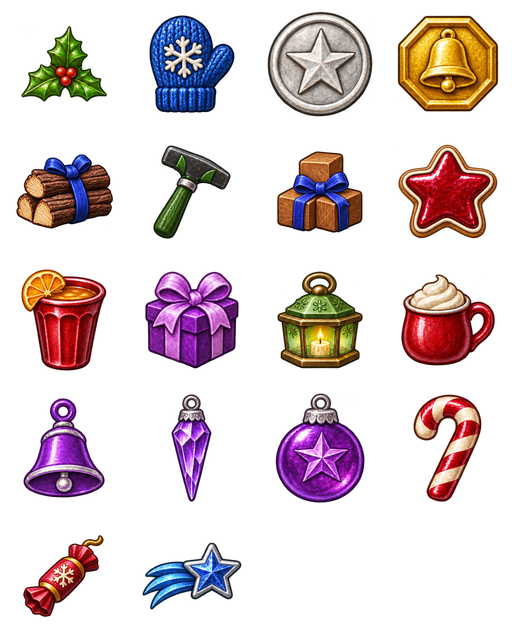
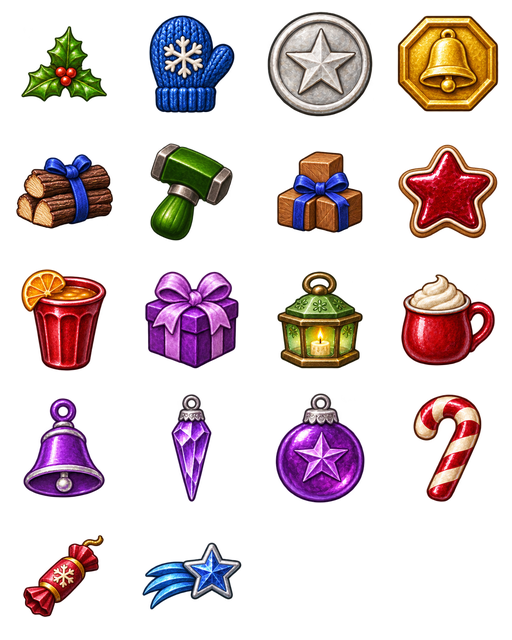
Thicken the Christmas Market hammer and enlarge board pieces

Changed region(s): [[0.2812, 0.2188, 0.4688, 0.375]]

diff --git a/games/christmas-market/tools/prepare_market_goods.py b/games/christmas-market/tools/prepare_market_goods.py
@@ -15,25 +15,34 @@ sys.path.insert(0, str(ROOT.parents[1] / 'tools'))
 from match3_theme_art import fit_object, silhouette
 
 
+def open_sheet(path):
+    with Image.open(ROOT / path) as source:
+        assert source.mode == 'RGBA' and source.getchannel('A').getextrema() == (0, 255), path
+        return source.copy()
+
+
 def main():
     parser = argparse.ArgumentParser(description=__doc__)
     parser.add_argument('--check', action='store_true')
     args = parser.parse_args()
     goods = json.loads((ROOT / 'art/manifest.json').read_text())['market_goods']
     sizes = goods['piece_max_side']
-    source = Image.open(ROOT / goods['source'])
-    assert source.mode == 'RGBA' and source.getchannel('A').getextrema() == (0, 255)
+    source = open_sheet(goods['source'])
+    edits = goods.get('source_overrides', {})
+    edited_sheets = {key: open_sheet(edit['source']) for key, edit in edits.items()}
     mask = silhouette(Image.open(ROOT.parents[1] / 'engine/art/hex-tile/hex-mask-128.png')).filter(ImageFilter.MinFilter(5))
     atlas = Image.new('RGBA', (COLUMNS * SLOT, ROWS * SLOT))
     sprites = [(f'market-{kind}', name) for kind, name in enumerate(goods['frames'])]
     sprites.extend(goods['toolbar_only'].items())
     assert len(sprites) == 18
+    assert edited_sheets.keys() <= dict(sprites).keys()
     frames = {}
     for slot, (key, name) in enumerate(sprites):
+        sheet = edited_sheets.get(key, source)
         row, col = divmod(slot, COLUMNS)
-        left, top = col * source.width // COLUMNS, row * source.height // ROWS
-        bay = (left, top, (col + 1) * source.width // COLUMNS, (row + 1) * source.height // ROWS)
-        sprite = source.crop(bay)
+        left, top = col * sheet.width // COLUMNS, row * sheet.height // ROWS
+        bay = (left, top, (col + 1) * sheet.width // COLUMNS, (row + 1) * sheet.height // ROWS)
+        sprite = sheet.crop(bay)
         x0, y0, x1, y1 = silhouette(sprite).getbbox()
         # Include the painted edge while cropping away stray gutter pixels.
         crop = (max(0, x0 - EDGE_PADDING), max(0, y0 - EDGE_PADDING),
@@ -44,6 +53,8 @@ def main():
         source_crop = [left + crop[0], top + crop[1], left + crop[2], top + crop[3]]
         frames[key] = dict(name=name, source_crop=source_crop, fitted_size=fitted,
                            offset=offset, registered_box=[x, y, SLOT, SLOT])
+        if key in edits:
+            frames[key]['source'] = edits[key]['source']
     record = ROOT / goods['transforms']
     content = json.dumps(dict(source=goods['source'], frames=frames), indent=2) + '\n'
     output = ROOT / goods['runtime']

diff --git a/games/christmas-market/tools/check_assets.py b/games/christmas-market/tools/check_assets.py
@@ -73,6 +73,8 @@ def main():
     goods = manifest['market_goods']
     for name in ('source', 'prompt', 'edit_target', 'edit_target_prompt', 'transforms', 'review'):
         assert (ROOT/goods[name]).is_file(), name
+    for edit in goods.get('source_overrides', {}).values():
+        assert (ROOT/edit['source']).is_file() and (ROOT/edit['prompt']).is_file(), edit
     assert png(ROOT/goods['runtime']) == ((512, 640), 6) and len(set(goods['frames'])) == 16
     icons = manifest['bonus_buttons']['icons']
     assert set(goods['toolbar_only']) == {frame for frame in icons.values() if not frame.startswith('market-')}

diff --git a/games/christmas-market/docs/asset-catalogue.md b/games/christmas-market/docs/asset-catalogue.md
@@ -146,7 +146,7 @@ Christmas cracker and comet frames. The farrier's hammer centers the bounds
 of its silhouette on the enamel face. The other boosters use their centers of
 opacity. The colored icon and the disabled inset use the same anchor.
 Cards and the guide show those same pieces. The
-[state review](screenshots/review/hammer-centering/art-states.jpg) covers
+[state review](screenshots/review/large-pieces/art-states.jpg) covers
 all four boosters. The stock badge appears when the player has more than
 one use. The toolbar capture gives the hammer two uses to show that state.
 
@@ -165,7 +165,9 @@ into the transparent [4×5 master](../art/market-goods/winter-coins-and-boosters
 The [prompt](../art/market-goods/winter-coins-and-boosters-prompt.txt) includes
 the two coins, natural wood and all four booster icons. The first sixteen
 cells are board pieces. The bottom row holds two toolbar-only icons and two
-empty bays. The [registration record](../art/market-goods/registration.json)
+empty bays. A targeted [ImageGen revision](../art/market-goods/winter-thick-hammer.png)
+supplies the thicker hammer in row two, column two. Its [edit prompt](../art/market-goods/winter-thick-hammer-prompt.txt)
+specifies the larger enamel head and wider handle. The [registration record](../art/market-goods/registration.json)
 stores each source crop, proportional fit and offset in its 128 px slot.
 The crop takes the object's solid bounds with four pixels of edge padding.
 The fit preserves source alpha inside the engine's flat-top hex inset.
@@ -202,6 +204,11 @@ The wallet, prices and results share the three
 currency icons. The [color map and review](market-pieces.md) include native
 captures of the board at both phone sizes, the bakery's reward card, the
 guide, the win result and the booster catalogue.
+
+Live pieces draw their 128 px canvas, including its transparent margins, at
+106% of the cell step. This is about 12% larger than the former board scale.
+The [size review](square-match3.md#piece-size) shows the new silhouettes and
+clearance around chains and ice.
 
 ```sh
 python3 games/christmas-market/tools/prepare_market_goods.py

diff --git a/games/christmas-market/docs/square-match3.md b/games/christmas-market/docs/square-match3.md
@@ -71,6 +71,20 @@ python3 tools/square_board_frame.py --review games/christmas-market/docs/screens
 build/test/christmas-market "shot booster-toolbar" "shot square-winter-wreath" "shot phone-pieces-board"
 ```
 
+### Piece size
+
+Every live piece draws about 12% larger. The farrier's hammer also has a
+thicker green head and handle, with the same silhouette on the board and
+all five toolbar states.
+
+| Size | Before | After |
+| --- | --- | --- |
+| 480 × 900 | [Board](screenshots/review/square-frame/board-480.jpg) | [Board](screenshots/review/large-pieces/board-480.jpg) |
+| 390 × 844 | [Board](screenshots/review/square-frame/board-390.jpg) | [Board](screenshots/review/large-pieces/board-390.jpg) |
+
+[Dense board with chains and ice](screenshots/review/large-pieces/blockers.jpg) ·
+[Five hammer button states](screenshots/review/large-pieces/art-states.jpg)
+
 ## Captures
 
 - [Winter Wreath](screenshots/square-winter-wreath.jpg)
